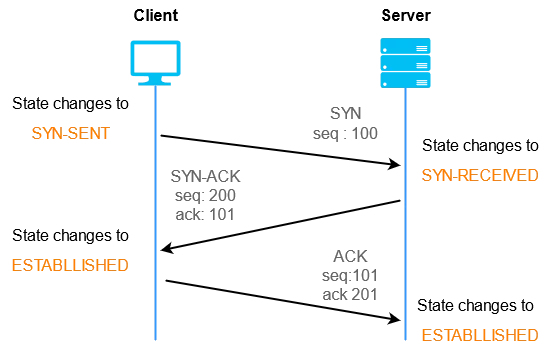
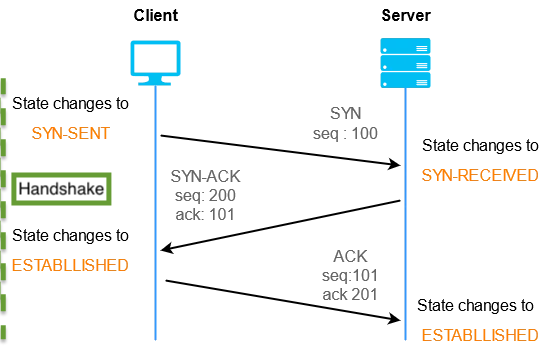
Content updates

Changed region(s): [[0.0, 0.4843, 0.216, 0.9687], [0.0, 0.2279, 0.0309, 0.3704], [0.0, 0.3989, 0.0309, 0.4558]]

diff --git a/docs/index.html b/docs/index.html
@@ -34,6 +34,29 @@ Please join slack channel: #cfl-rancher-lab-oct-2024
 
 ---
 
+class: center, middle
+
+## Derek Keightley
+
+## &
+
+## Ryan Elliott-Smith
+
+???
+
+No sheep
+
+---
+
+## What are we doing?
+
+--
+
+- Quick presentation to cover some relevant topics (~15mins)
+- Lab
+
+--
+
 ## What are we working with?
 
 In the lab environment the following has been pre-created:
@@ -106,9 +129,11 @@ https://kubernetes.io/docs/reference/access-authn-authz/extensible-admission-con
 
 ---
 
-## Wait, first let's take a look at this
+class: center, middle
 
----
+## Wait, first let's step back a bit..
+
+--
 
 class: center, middle
 
@@ -126,13 +151,15 @@ Come back to this slide if it's useful to reference in the following slides
 
 ---
 
+class: center, middle
+
 ![tcp-session](tcp-full-session-cropped.png)
 
 ???
 
-- L/H side shows what we covered in the previous slide, the session is started after the handshake
-- In between is the data transmission - what matters
-- R/H side is the closure of the session - in a nice polite way
+- First green handshake section shows what we covered in the previous slide, the session is started after the handshake
+- The session is where the data transmission - what matters
+- The closure of the session - in a nice polite way to finish
 - Not all TCP sessions close this way, often abruptly 
 
 ---
@@ -149,6 +176,7 @@ Ask the audience about their understanding of what these messages mean
 
 ```bash
 # kubectl describe pod -n kube-system rke2-canal-zoidberg
+
 E0924 22:18:04.357762   4491 memcache.go:265] couldn't get current server API group list: Get https://127.0.0.1:6443/api?timeout=32s: dial tcp 127.0.0.1:6443: connect: connection refused
 ```
 
@@ -162,10 +190,9 @@ zapp.brannig.an rke2[2783338]: {"level":"warn","ts":"2024-09-27T11:57:31.335237-
 
 Can be a few reasons:
 - (most common) The destination port is not bound by the destination host
+  - This can be temporary, for example if ingress-nginx is restarting, the port will not be bound for a short period
 - The destination kernel refuses connections due to a backlog of queued connections
 - A firewall rule with a `REJECT` rather than `DROP`
-
-This can be temporary, for example if ingress-nginx is restarting, the port will not be bound for a short period
 
 ---
 
@@ -200,6 +227,7 @@ Can be a few reasons:
 - No ACK response from the destination host, need more context about the connectivity path to understand cause
 - Firewall rule with `DROP`, doesn't respond with ACK to the source SYN packet
 - Destination host is under load, app doesn't reply in the timeout period
+- Last error isn't necessarily a TCP timeout, the HTTP request did not get a response from kube-api in the 5s timeout
 
 ---
 
@@ -223,7 +251,7 @@ ERROR: https://prof-farmsworth.edu/ping is not accessible (Recv failure: Connect
 
 ???
 
-Equivalent to handing up the phone on a caller, an abrupt closure of the TCP session - almost always by the destination but can be from the source as well
+Equivalent to hanging up the phone on a caller, an abrupt closure of the TCP session - almost always by the destination but can be from the source as well
 - A TCP packet was sent by the destination with the RST (reset) flag set, indicating a forced immediate closure
 - More polite than not sending anything (a timeout), can give more context for troubleshooting
 
